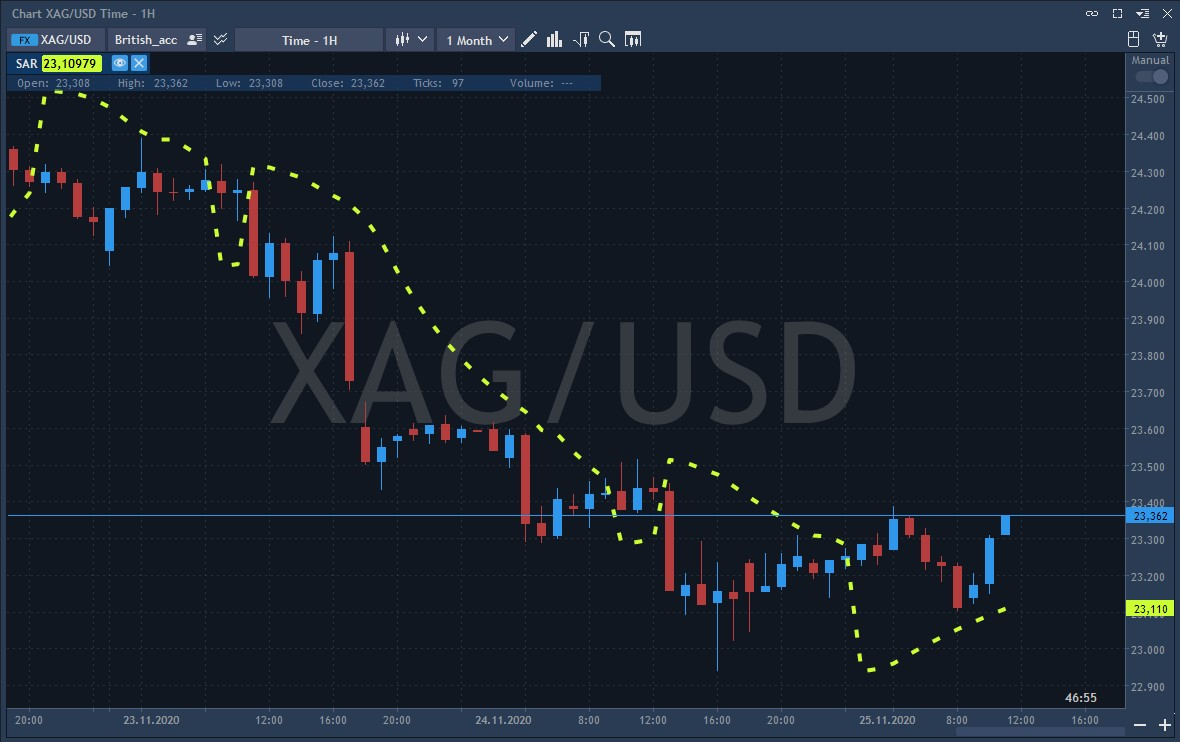
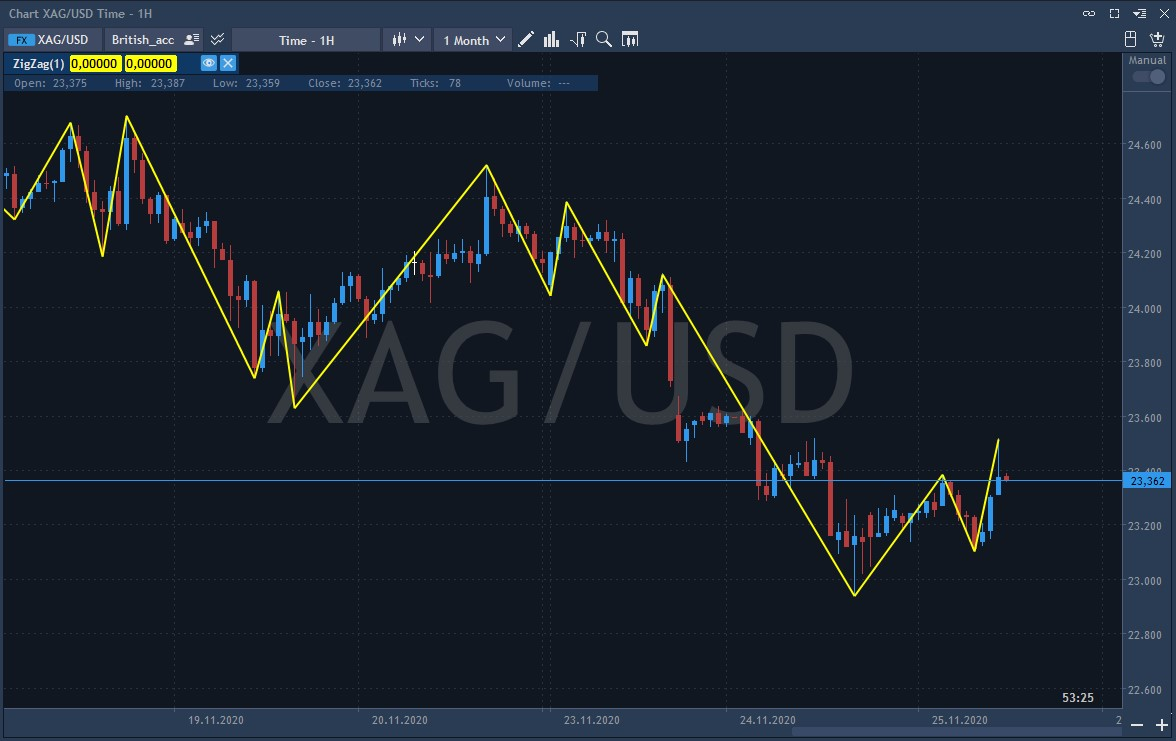
GitBook: [master] 5 pages and 5 assets modified

diff --git a/desktop-application-for-windows/windows/technical-indicators/volatility/atr-average-true-range.md b/desktop-application-for-windows/windows/technical-indicators/volatility/atr-average-true-range.md
@@ -1,0 +1,44 @@
+# ATR \(Average true range\)
+
+Average True Range \(ATR\) is a technical analysis volatility indicator originally developed by J. Welles Wilder, Jr. for commodities. The indicator does not show the price trend, but simply shows the degree of price volatility. The average true range is an N-day exponential moving average of the true range values. Wilder recommended a 14-period smoothing.
+
+Average True Range can often reach a high value at the bottom of the market after a sheer fall in prices occasioned by panic selling. Low values of the indicator are typical for the periods of sideways movement of long duration which happen at the top of the market and during consolidation. Average True Range can be interpreted according to the same principles as other volatility indicators. The principle of forecasting based on this indicator can be worded the following way: the higher the value of the indicator, the higher the probability of a trend change; the lower the indicator’s value, the weaker the trend movement.
+
+The  ATR is commonly used as an exit method that can be applied regardless of how the entry decision is made. One popular technique that is known as "chandelier exiting" was developed by Chuck LeBeau. According to this technique, a trailing stop is placed below the highest high the stock has reached since you entered the trade. The distance between the highest high and the stop level is defined as multiple ATR values. For example, we can subtract three times the ATR value from the highest high since entering the trade.
+
+### Calculation
+
+The range of a day’s trading is simply _high – low_. The true range extends it to yesterday’s closing price if it was outside of today’s range:
+
+_True range = max \[\(high – low\), abs \(high – closeprev\), abs \(low – closeprev\)\]_
+
+The true range is the largest of the:
+
+* Most recent period's high minus the most recent period's low;
+* Absolute value of the most recent period's high minus the previous close;
+* Absolute value of the most recent period's low minus the previous close.
+
+The ATR at the moment of time t is calculated using the following formula:
+
+![](../../../../.gitbook/assets/image%20%2841%29.png)
+
+The first ATR value is calculated using the arithmetic mean formula:
+
+![](../../../../.gitbook/assets/image%20%2840%29.png)
+
+**ATR analysis basics**
+
+* The greater the indicator value, the greater the possibility for a trend reversal;
+* The smaller the value, the weaker the trend.
+
+### Main parameters
+
+* Period of Moving average – number of periods involved in the indicator calculation, 13 by default;
+* Type of Moving average – Moving average calculation type, available values: Simple, Exponential, Modified, Linear weighted.
+
+The indicator looks as follows on the chart:
+
+![](../../../../.gitbook/assets/screenshot_2%20%2829%29.jpg)
+
+
+

diff --git a/SUMMARY.md b/SUMMARY.md
@@ -86,6 +86,8 @@
         * [SI \(Swing index\)](desktop-application-for-windows/windows/technical-indicators/trend/si-swing-index.md)
         * [ZZ \(ZigZag\)](desktop-application-for-windows/windows/technical-indicators/trend/untitled.md)
         * [YHL \(Yesterday's high low\)](desktop-application-for-windows/windows/technical-indicators/trend/yhl-yesterdays-high-low.md)
+      * [Volatility](desktop-application-for-windows/windows/technical-indicators/volatility/README.md)
+        * [ATR \(Average true range\)](desktop-application-for-windows/windows/technical-indicators/volatility/atr-average-true-range.md)
     * [Trading panels](desktop-application-for-windows/windows/trading-panels/README.md)
       * [Order entry](desktop-application-for-windows/windows/trading-panels/order-entry.md)
       * [Super DOM](desktop-application-for-windows/windows/trading-panels/super-dom.md)

diff --git a/desktop-application-for-windows/windows/technical-indicators/trend/untitled.md b/desktop-application-for-windows/windows/technical-indicators/trend/untitled.md
@@ -16,7 +16,7 @@ Percent deviation – percentage of a price change that is required to change th
 
 The indicator looks as follows on the chart:
 
-![](../../../../.gitbook/assets/screenshot_2%20%2829%29.jpg)
+![](../../../../.gitbook/assets/screenshot_2%20%2830%29.jpg)
 
 
 

diff --git a/desktop-application-for-windows/windows/technical-indicators/trend/sar-parabolic-time-price-system.md b/desktop-application-for-windows/windows/technical-indicators/trend/sar-parabolic-time-price-system.md
@@ -49,5 +49,5 @@ Current SAR = Prior SAR – Prior AF \* \(Prior EP – Prior SAR\)
 
 The indicator itself looks as follows on the chart:
 
-![](../../../../.gitbook/assets/screenshot_2%20%2830%29.jpg)
+![](../../../../.gitbook/assets/screenshot_2%20%2831%29.jpg)
 

diff --git a/desktop-application-for-windows/windows/technical-indicators/volatility/README.md b/desktop-application-for-windows/windows/technical-indicators/volatility/README.md
@@ -1,0 +1,2 @@
+# Volatility
+
